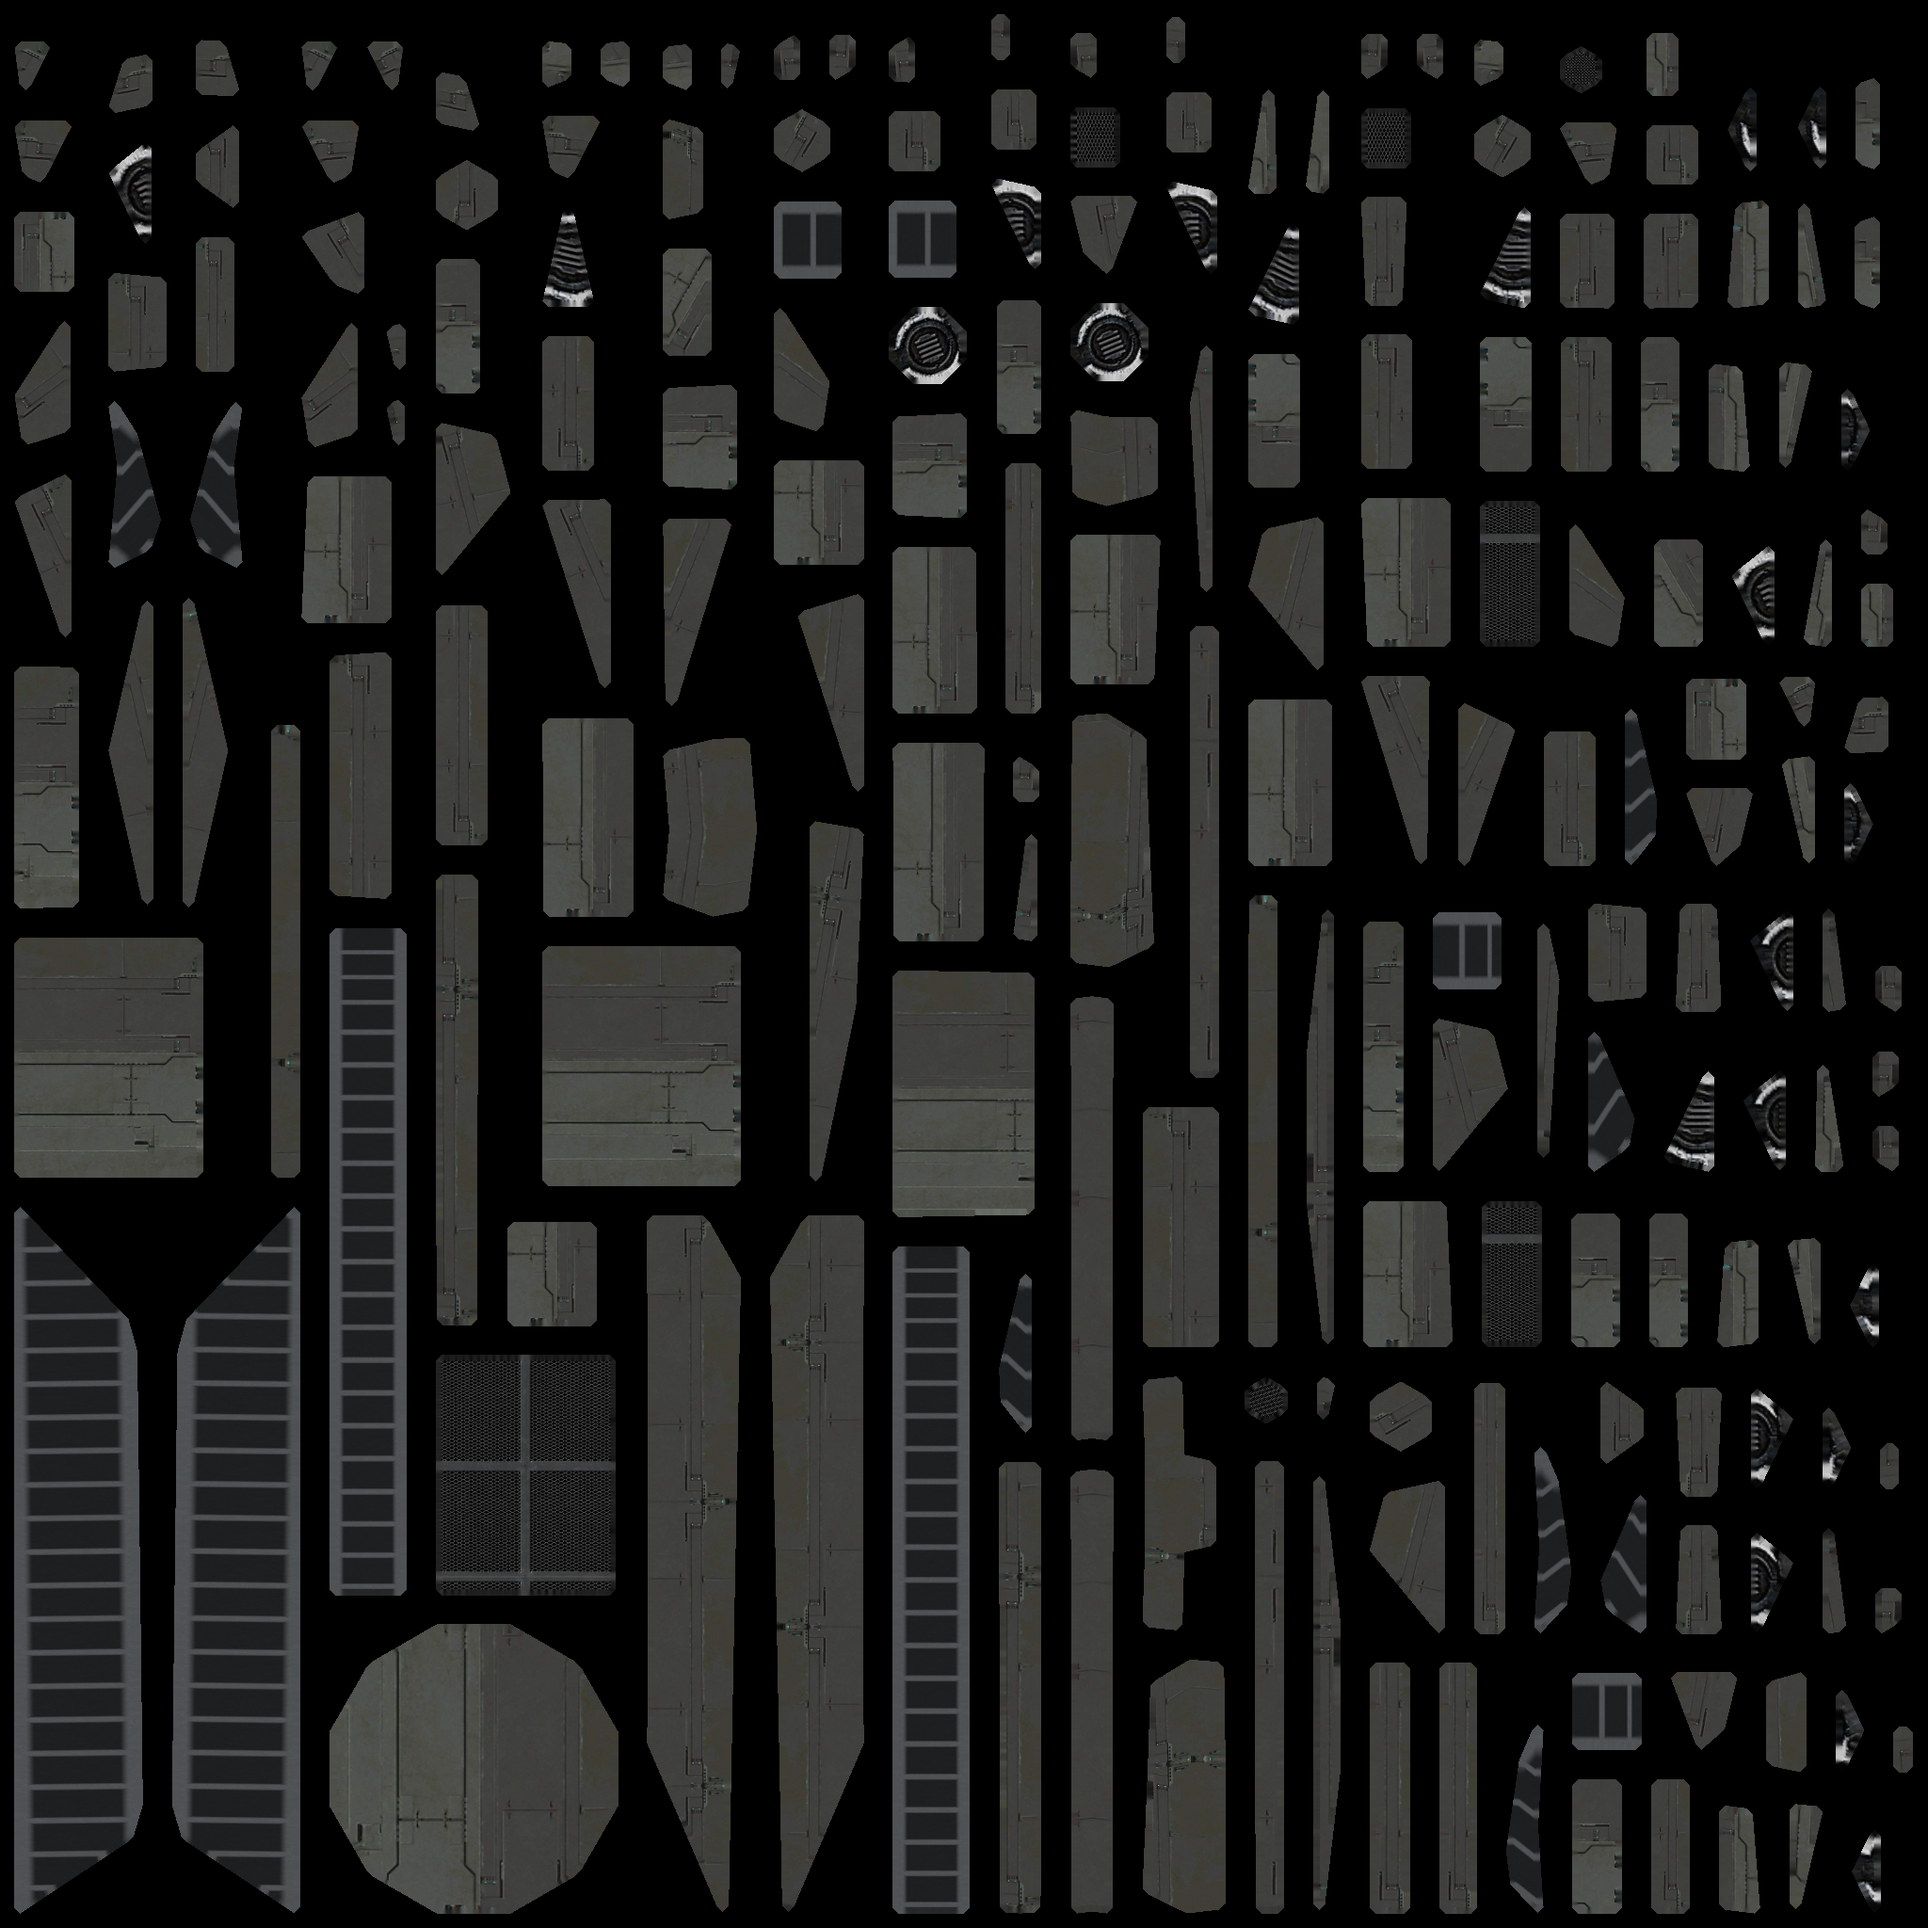
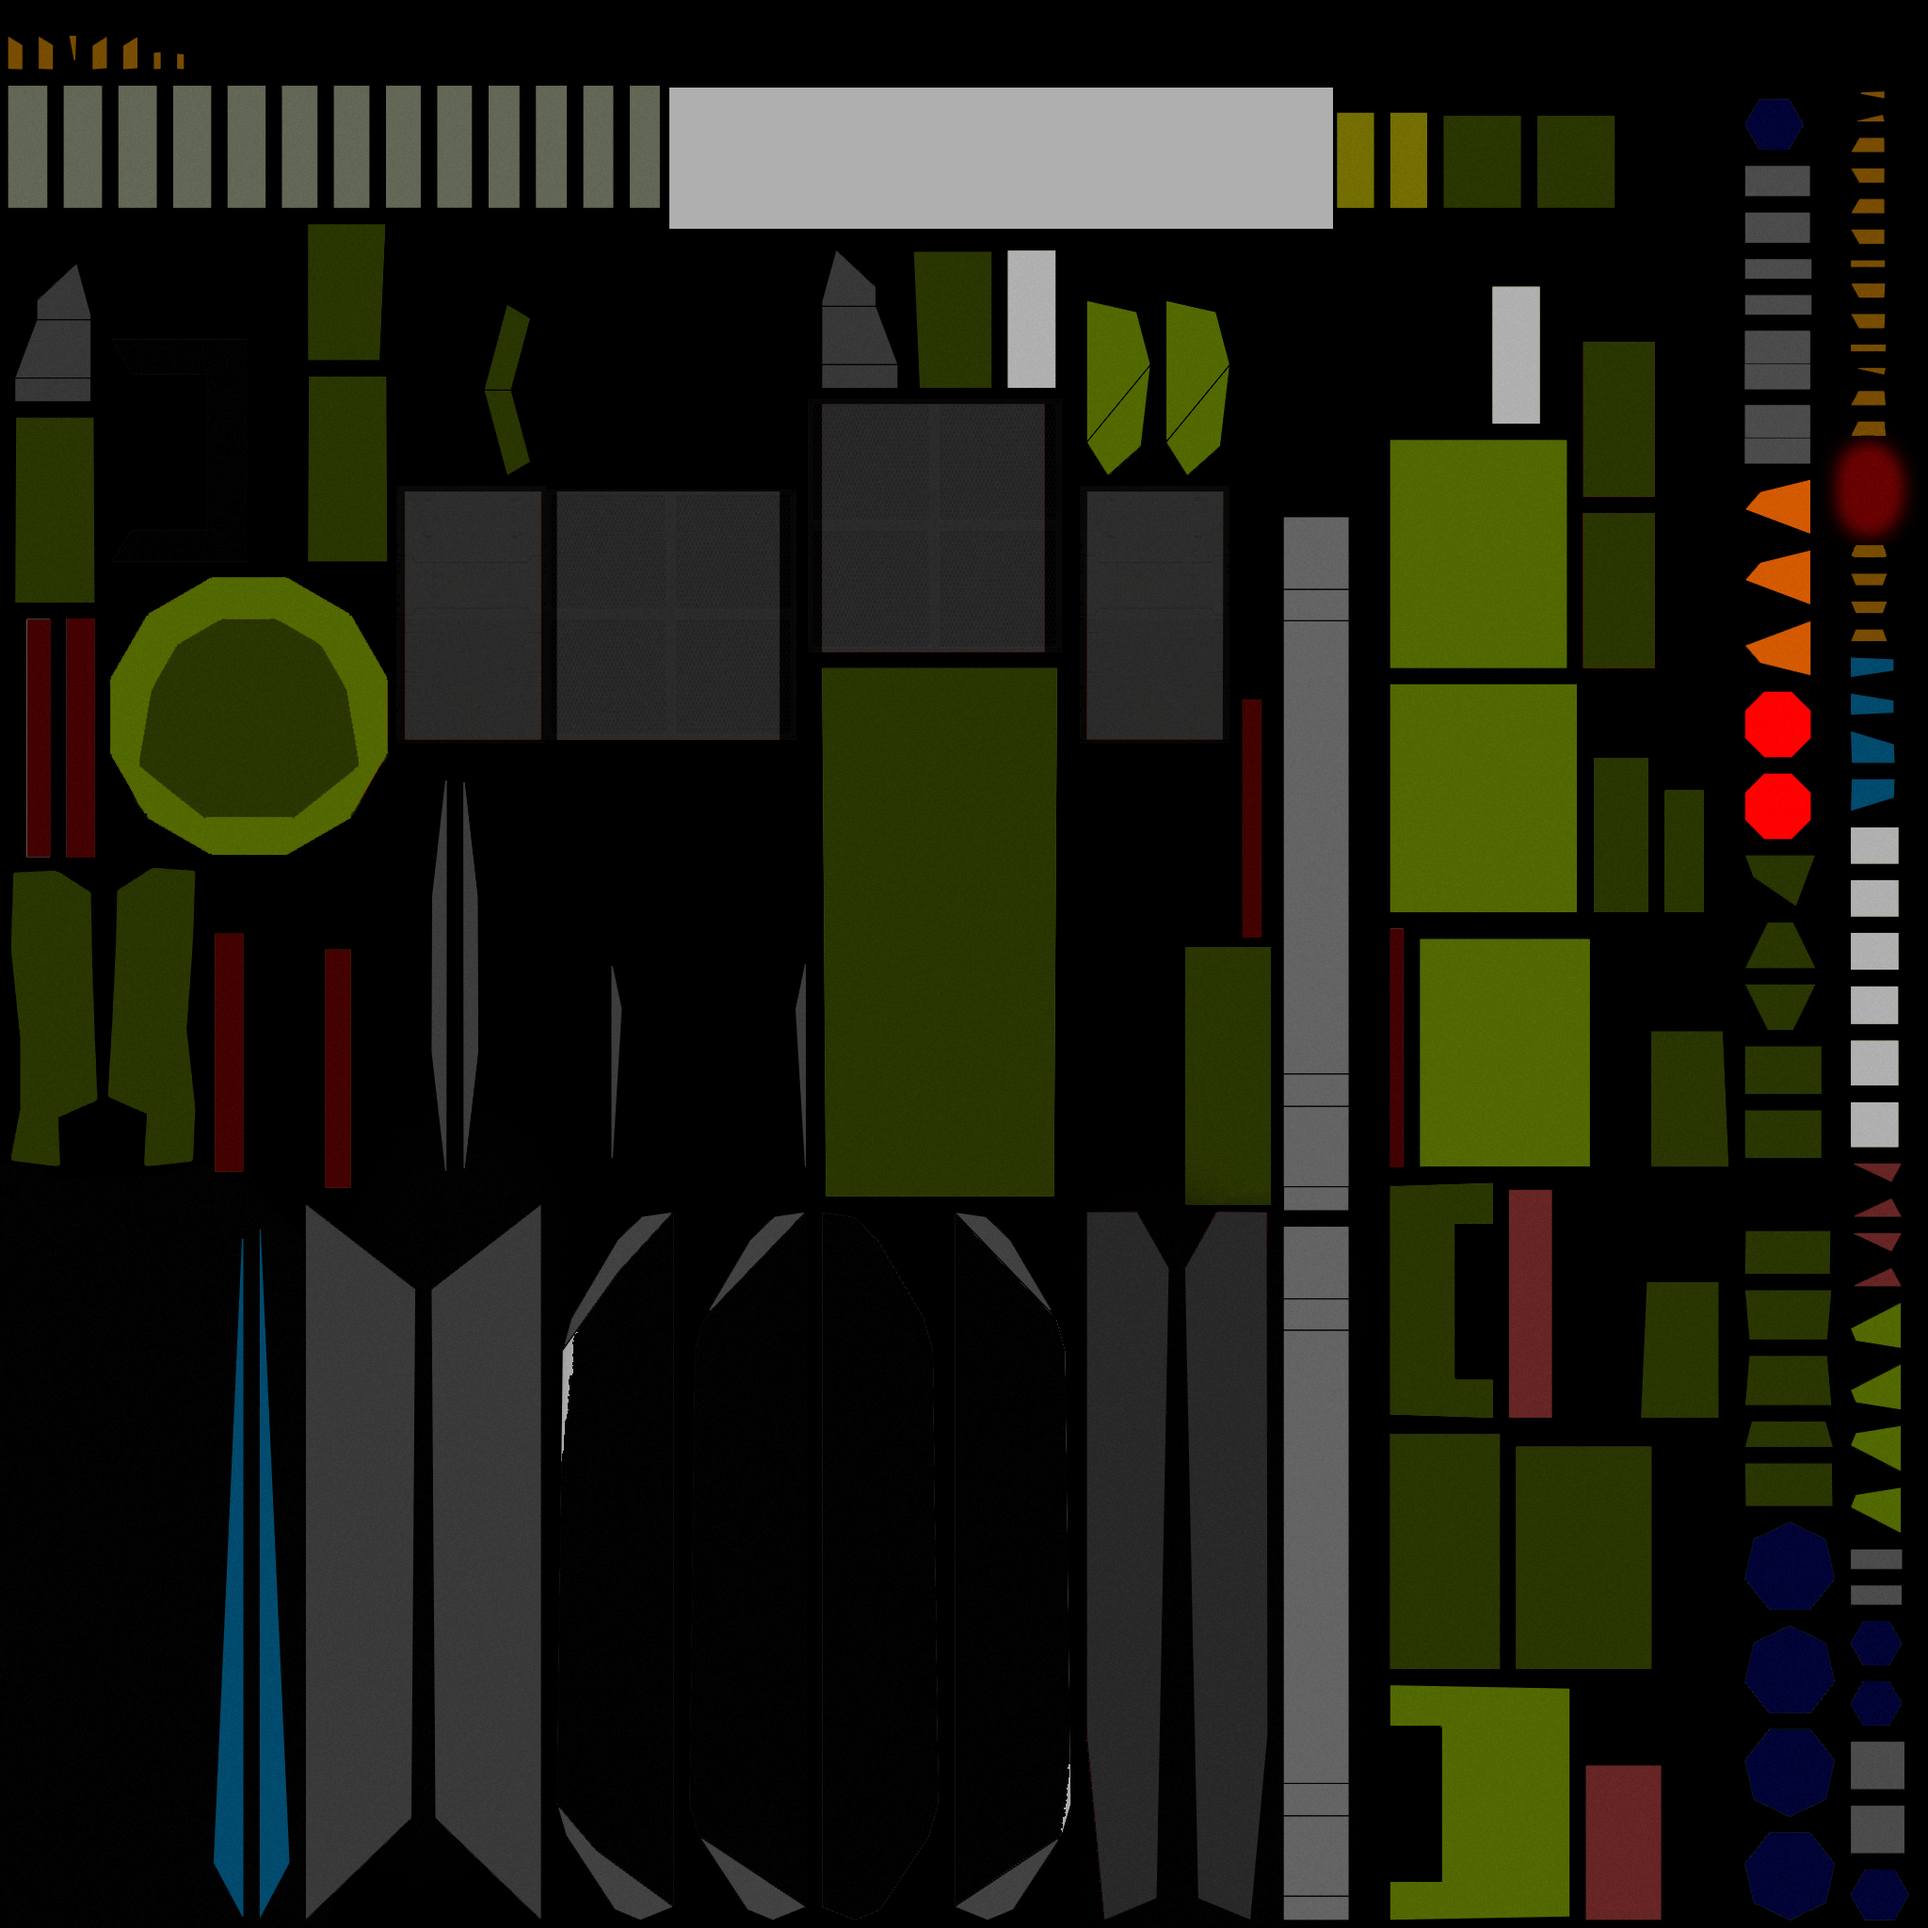
Tank model update, made a proper interior and a second seat for the gunner

diff --git a/src/lib/atom/entities/actors/daperson.cpp b/src/lib/atom/entities/actors/daperson.cpp
@@ -1931,6 +1931,10 @@ void DaPerson::RenderScene(const AuMatrix4x4& projection, const AuMatrix4x4& far
 	// Parent atom sometimes wants to render health. e.g. creature, vehicle. It is usually two bars tall.
 	// Allow space for my three bars: health, stamina, and hunger, plus a taller jump bar, with a spacing between, and a margin.
 	DaAtom* parent = Parent();
+	DaVehicle* vehicle = dynamic_cast<DaVehicle*>(parent);
+	const bool tankDriverHud = g_Au.IsLegacyGeneration() && vehicle &&
+			vehicle->CommodityId() == CID_Tank && VehicleSeatIndex() == 0 &&
+			!IsBodyDyingOrDead() && !RemoteCameraId();
 	if(parent)
 	{
 		float gap = 0;	//barSpacing * 2;
@@ -2066,11 +2070,12 @@ void DaPerson::RenderScene(const AuMatrix4x4& projection, const AuMatrix4x4& far
 			//DHH Cannot shoot out of an enclosed vehicle.
 			//DHH This should eventually be smarter so people can shoot through the
 			//DHH windows or doors of an enclosed vehicle.
-			if(!IsInVehicle())
+			// Keep the Tank driver's crosshair visible inside the enclosed vehicle.
+			if(!IsInVehicle() || tankDriverHud)
 			{
 				// Calculate cross-hair Y offset based on targetted atom. Camera positioning behind/above the head induces this.
 				float yoff = 0;
-				if(targetAtom && !targetLoc.IsZero())
+				if(!tankDriverHud && targetAtom && !targetLoc.IsZero())
 				{
 					// No Y offset adjustment is needed in first person view when the view angle is zero, which is the normal first
 					// person view angle.
@@ -2855,14 +2860,13 @@ void DaPerson::RenderScene(const AuMatrix4x4& projection, const AuMatrix4x4& far
 	}
 
 	// Vehicle Status
-	DaVehicle* vehicle = dynamic_cast<DaVehicle*>(parent);
 	if(vehicle)
 	{
 		if(vehicle->IsControlSeat(VehicleSeatIndex()))
 		{
-			if(ari.IsViewTopDown())
+			if(ari.IsViewTopDown() || tankDriverHud)
 			{
-				// In top-down alt view, render the hud at the center of the screen.
+				// Top-down and Tank driver HUDs use a fixed screen-space anchor.
 				vehicle->RenderHud(0,0, hudIntensity, ari);
 			}
 			else
@@ -9627,10 +9631,6 @@ void DaPerson::ApplyMovement(unsigned int msElapsed)
 
 	// Orient to the terrain under my feet.
 	Orient(Location(), Transform().ProjectVector(TerrainNormal()));
-
-	// Predict Tank articulation with the same look angles sent in position reports.
-	DaVehicle* tank = dynamic_cast<DaVehicle*>(Parent());
-	if(tank) tank->PositionTankTurret(*this);
 
 	if(IsTurretIntegratedPose())
 	{

diff --git a/src/lib/atom/entities/vehicles/davehicle.cpp b/src/lib/atom/entities/vehicles/davehicle.cpp
@@ -2919,46 +2919,6 @@ bool DaVehicle::Orient(const AuPoint& atLoc, const AuPoint& terNormal)
 	return true;
 }
 
-float DaVehicle::TankCameraPitch(float headTilt)
-{
-	return qBound(-75.f * DEG2RADf, headTilt - 15.f * DEG2RADf, 45.f * DEG2RADf);
-}
-
-void DaVehicle::PositionTankTurret(const DaCreature& occupant)
-{
-	if(!g_Au.IsLegacyGeneration() || m_cid != CID_Tank ||
-		occupant.Parent() != this || occupant.VehicleSeatIndex() != 0 ||
-		!occupant.IsNormal() || occupant.IsBodyDyingOrDead() || occupant.RemoteCameraId())
-		return;
-
-	float yaw = occupant.Rotation().z;
-	const float headTilt = occupant.CurrentHeadTilt();
-	if(!std::isfinite(yaw) || !std::isfinite(headTilt)) return;
-	yaw = std::fmod(yaw, 2.f * PIf);
-	if(yaw > PIf) yaw -= 2.f * PIf;
-	if(yaw < -PIf) yaw += 2.f * PIf;
-
-	AuTurretState aim;
-	aim.SetBaseRotation(yaw);
-	// The chase camera's downward framing bias is not weapon elevation.
-	// Applying it here pins the barrels at their depression limit near neutral look.
-	aim.SetGunRotation(qBound(-10.f * DEG2RADf, headTilt, 60.f * DEG2RADf));
-	bool changed = false;
-	{
-		QWriteLocker lock(&m_VehicleLock);
-		// AuTurretState::operator!= returns equality in the legacy helper.
-		// Match DaSc::PositionTurret's explicit angle comparison instead.
-		if(m_TankTurret.BaseRotation() != aim.BaseRotation() ||
-			m_TankTurret.GunRotation() != aim.GunRotation())
-		{
-			m_TankTurret = aim;
-			m_TankTurretChanged.Set();
-			changed = true;
-		}
-	}
-	if(changed) SetModified();
-}
-
 void DaVehicle::TankTurretTransforms(QHash<QString, AuMatrix4x4>& transforms) const
 {
 	if(!g_Au.IsLegacyGeneration() || m_cid != CID_Tank || !m_Model) return;
@@ -5739,6 +5699,7 @@ void DaVehicle::RenderAudioSources(const DaPerson* sceneAtom, const AuMatrix4x4&
 			if(!IsEngineOn())
 				break;
 			engineSnd = SOUND_Tank_Idle;
+			gain *= 2;
 			if(!IsFuzzyZero(vec.y))
 			{
 				// Lots of transmission choices for this guy from 4 to 6 speeds.

diff --git a/src/lib/atom/entities/actors/dacreature.cpp b/src/lib/atom/entities/actors/dacreature.cpp
@@ -3105,29 +3105,6 @@ bool DaCreature::IsCameraAtEyes(const AuAtomRenderInfo& ari) const
 	return false;
 }
 
-bool DaCreature::ThirdPersonDriverCamera(AuMatrix4x4& camera) const
-{
-    const DaVehicle* vehicle = dynamic_cast<const DaVehicle*>(Parent());
-
-    if(!g_Au.IsLegacyGeneration() || !vehicle || vehicle->CommodityId() != CID_Tank || VehicleSeatIndex() != 0 || IsBodyDyingOrDead() || RemoteCameraId()) return false;
-
-	const double pitch = DaVehicle::TankCameraPitch(CurrentHeadTilt());
-	
-	AuMatrix4x4 vehicleCamera;
-	vehicleCamera.LoadIdentity();
-	
-	// Orbit around a point six feet above the Tank origin.
-	vehicleCamera.Translate(0, 0, 6);
-	vehicleCamera.RotateZ(Rotation().z);
-	vehicleCamera.RotateX(pitch);
-	
-	vehicleCamera.Translate(0, -25, 0);
-	vehicleCamera.RotateX(PI / 2.0);
-	
-	camera = Transform().Inverse() * vehicleCamera;
-	return true;
-}
-
 // Sets up camera when this atom is going to render the scene.
 void DaCreature::SetupCamera(AuMatrix4x4& tCamera, double& rNearClip, double& rFarClip, AuAtomRenderInfo& ari) const
 {
@@ -3158,12 +3135,6 @@ void DaCreature::SetupCamera(AuMatrix4x4& tCamera, double& rNearClip, double& rF
 			tCamera = Transform().Inverse() * mRemoteCam;
 			return;
 		}
-	}
-
-	if(!ari.IsViewTopDown() && ThirdPersonDriverCamera(tCamera))
-	{
-		rNearClip = 1.;
-		return;
 	}
 
 	// If near clip is too small, distant objects merge too much. Too large and the canopy braces of the space
@@ -9298,9 +9269,6 @@ bool DaCreature::ConsoleScreenQuad(AuQuad& screen) const
 
 AuPoint DaCreature::SceneCameraLocation() const
 {
-	AuMatrix4x4 vehicleCamera;
-	if(ThirdPersonDriverCamera(vehicleCamera))
-    return vehicleCamera.Translation();
 	const DaSc* legacyShip = dynamic_cast<const DaSc*>(Parent());
 	const AuPose pose = CurrentGeneralPose();
 	if(pose.IsTurret() && !pose.IsTurretIntegrated()

diff --git a/src/app/servers/scene/dtsceneserver.cpp b/src/app/servers/scene/dtsceneserver.cpp
@@ -3465,10 +3465,6 @@ void DtSceneServer::ClientPositionUpdate(bool atRest, float headTilt, AuAtomPos&
 							vehicle->SetControlled(AuId());		// Release client control of vehicle.
 					}
 				}
-				// Use the accepted parent, seat, yaw and head tilt, including reports
-				// that change only head tilt. The vehicle validates the aiming seat.
-				DaVehicle* tank = dynamic_cast<DaVehicle*>(person->Parent());
-				if(tank) tank->PositionTankTurret(*person);
 				if(personChanged)
 					person->SetModified();
 

diff --git a/src/lib/atom/entities/vehicles/davehicle.h b/src/lib/atom/entities/vehicles/davehicle.h
@@ -222,10 +222,6 @@ public:
 
 	int ColonistsAboard() const;
 
-	// Seat zero aims the Legacy Tank until a dedicated gunner seat is enabled.
-	void PositionTankTurret(const DaCreature& occupant);
-	static float TankCameraPitch(float headTilt);
-
 	// 'attacker' is the atom that is causing the damage. The attacker id should be NULL when the attacker is not a DaUnit, like
 	//   when it is the environment or a sun or something.
 	// 'weapon' describes the weapon that was used to inflict the damage.

diff --git a/src/lib/atom/entities/actors/dacreature.h b/src/lib/atom/entities/actors/dacreature.h
@@ -1746,8 +1746,6 @@ protected:
 
 	void StoreClientConsoleSettings() const;
 
-	bool ThirdPersonDriverCamera(AuMatrix4x4& camera) const;
-
 public:
 	// Legacy building stations remain parented to the world.
 	DaLegacyCity* LegacyStationCity(AuStation* station = nullptr) const;
